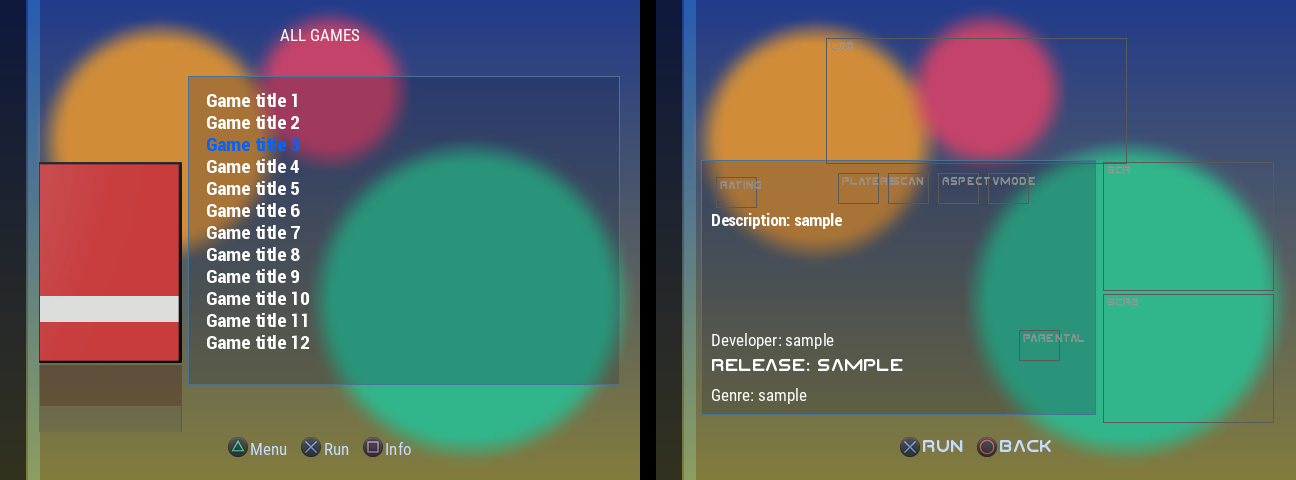
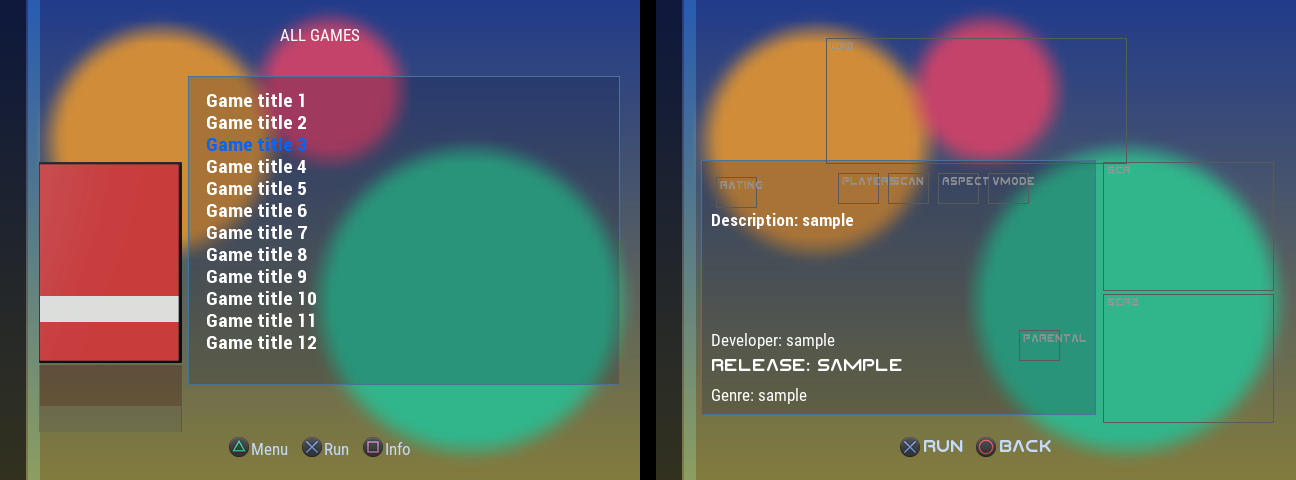
Adapt Rx keeps the side bar on the left; its list, case and info page rebalanced around it
- The frosted side bar sits on the left in every theme of the family: Rx swaps the content, not the
  bar. gen_adapt_family.py's backdrop() has no right-hand bar any more.
- Adapt Rx list page: the list glass 56-464 (408 wide, the list inside it 384), the case 480-623,
  even 16 px gaps from the bar, between them and to the edge. Apps: the wide list clear of the bar,
  as in Adapt.
- Adapt Rx info page: screenshots 56-226, the text glass 242-622 (380 wide, its text 360).
- Adapt and RIPgrid come out unchanged. Previews redrawn; README says what Rx swaps, and that Pop In
  is a toast from build 81.

diff --git a/tools/gen_adapt_family.py b/tools/gen_adapt_family.py
@@ -56,9 +56,10 @@ def block(name, **kv):
     return "\n".join(out)
 
 
-def backdrop(fam, rx):
-    """Background, the frosted screen, the side bar's strip and rule: indices 0-3 of main and info."""
-    bar_x, rule_x = (614, 600) if rx else (0, 28)
+def backdrop(fam):
+    """Background, the frosted screen, the side bar's strip and rule: indices 0-3 of main and info. The
+    side bar is on the left in every theme of the family, Adapt Rx included (it mirrors the content)."""
+    bar_x, rule_x = 0, 28  # the strip 0-26, the rule 28-40: content starts at x 40
     return [
         block(fam + "0", type="Background", pattern="BG", widecrop=1),
         block(fam + "1", type="Ripps2PanelGlass", aligned=0, x=0, y=0, width=640, height=480,
@@ -78,13 +79,16 @@ def screenshot(name, pattern, x, y):
 
 
 def info(rx):
-    # the text panel sits clear of the side bar; the screenshots take the other side
-    gx = 195 if rx else 45    # glass left (395 wide: clear of the side bar and the screenshots)
+    # the text panel and the screenshots side by side, clear of the side bar. Rx swaps them, the side bar
+    # staying left: screenshots 56-226 (16 px from the bar), glass 242-622 (16 px gap, 18 px to the edge)
+    gw = 380 if rx else 395   # glass width
+    gx = 242 if rx else 45    # glass left
+    tw = gw - 20              # text width
     tx = gx + 10              # text left
     ax = gx + 15              # first attribute icon
-    sx = 106 if rx else 532   # screenshots' centre
-    els = backdrop("info", rx) + [
-        block("info4", type="Ripps2PanelGlass", aligned=0, x=gx, y=160, width=395, height=255,
+    sx = 141 if rx else 532   # screenshots' centre
+    els = backdrop("info") + [
+        block("info4", type="Ripps2PanelGlass", aligned=0, x=gx, y=160, width=gw, height=255,
               blur=1, tint=PANEL_TINT, frame=1, **INFO_TILT),
         block("info5", type="GameImage", pattern="LGO", x="POS_MID", y=100, aligned=1, width=300,
               height=125, **INFO_TILT),
@@ -93,13 +97,13 @@ def info(rx):
         block("info8", type="AttributeImage", attribute="Players", aligned=0, x=ax + 122, y=173, **INFO_TILT),
         # line_height: a description longer than its box rolls through it instead of running on
         block("info9", type="AttributeText", attribute="Description", aligned=0, display=2, x=tx, y=210,
-              width=375, height=100, wrap=1, line_height=19, font=1, **INFO_TILT),
+              width=tw, height=100, wrap=1, line_height=19, font=1, **INFO_TILT),
         block("info10", type="AttributeText", attribute="Developer", aligned=0, display=2, x=tx, y=330,
-              width=375, wrap=0, font=2, **INFO_TILT),
+              width=tw, wrap=0, font=2, **INFO_TILT),
         block("info11", type="AttributeText", attribute="Release", aligned=0, display=2, x=tx, y=358,
-              width=375, font=3, **INFO_TILT),
+              width=tw, font=3, **INFO_TILT),
         block("info12", type="AttributeText", attribute="Genre", display=2, aligned=0, x=tx, y=385,
-              width=375, font=2, **INFO_TILT),
+              width=tw, font=2, **INFO_TILT),
         block("info13", type="InfoHintText", aligned=1, x="POS_MID", y=-41, font=3),
         screenshot("info14", "SCR", sx, 226),
         screenshot("info15", "SCR2", sx, 358),
@@ -125,18 +129,22 @@ def common_tail(fam, start):
 
 
 def adapt(rx):
-    gx = 25 if rx else 188    # list glass
-    cx = 530 if rx else 110   # cover and disc centre
-    main = backdrop("main", rx) + [
-        block("main4", type="Ripps2PanelGlass", aligned=0, x=gx, y=76, width=432, height=309,
+    # Rx: the list left and the case right, the side bar staying left; even 16 px gaps from the bar to
+    # the glass (56-464), the glass to the case (480-623) and the case to the edge
+    gw = 408 if rx else 432   # list glass width
+    gx = 56 if rx else 188    # list glass left
+    cx = 552 if rx else 110   # cover and disc centre
+    lw = gw - 24 if rx else 420  # the list inside the glass
+    main = backdrop("main") + [
+        block("main4", type="Ripps2PanelGlass", aligned=0, x=gx, y=76, width=gw, height=309,
               blur=1, tint=PANEL_TINT, frame=1),
         block("main5", type="ItemCover", **case(x=cx, y=262, tilt=1, tilt_x=cx, tilt_y=200)),
         block("main6", type="ItemIcon", aligned=1, scaled=1, x=cx, y=96, width=120, height=120,
               tilt=1, tilt_x=cx, tilt_y=200),
-        block("main7", type="ItemsList", x=gx + 12, y=88, aligned=0, width=420, height=285, font=4),
+        block("main7", type="ItemsList", x=gx + 12, y=88, aligned=0, width=lw, height=285, font=4),
     ] + common_tail("main", 8)
-    # apps: one wide glass list clear of the side bar, no cover or disc
-    ax = 24 if rx else 48
+    # apps: one wide glass list clear of the side bar (left in both), no cover or disc
+    ax = 48
     apps = [
         block("appsMain4", type="Ripps2PanelGlass", aligned=0, x=ax, y=40, width=568, height=368,
               blur=1, tint=PANEL_TINT, frame=1),
@@ -150,7 +158,7 @@ def adapt(rx):
 def ripgrid(rx):
     # 4 x 2 covers centred in the room the side bar leaves; the highlight says which game it is, and only
     # it tips with the right stick (about its own centre; tilt_scale lets it turn further than a page)
-    main = backdrop("main", rx) + [
+    main = backdrop("main") + [
         block("main4", type="Grid", pattern="COV", x=340, y=62, width=120, height=168,
               columns=4, rows=2, spacing=16, font=4, tilt=1, tilt_scale=160),
         block("main5", type="ItemsList", x="POS_MID", y=45, width="DIM_INF", height=24, aligned=1,

diff --git a/README.md b/README.md
@@ -12,7 +12,7 @@ people and coding agents alike can add a theme and know it will load before it r
 
 | Theme | Look | Needs RIPPS2 |
 |---|---|---|
-| **Adapt** / **Adapt Rx** | akilluminati47's Adapt (RiptOPL): each game's background art under frosted glass (zoomed, not stretched, in 16:9) with Adapt's side bar as a frosted strip, the game's cover in RIPPS2's case with its reflection and the disc on one side, the list on clear glass on the other (Rx: mirrored). Info page on clear glass with 4:3 screenshots, tipping with the right stick as one plane; page morphs between them, Settings over the pillars, no towers on the game pages, the source name pops in. Art eases in. | build 80 |
+| **Adapt** / **Adapt Rx** | akilluminati47's Adapt (RiptOPL): each game's background art under frosted glass (zoomed, not stretched, in 16:9) with Adapt's side bar as a frosted strip, the game's cover in RIPPS2's case with its reflection and the disc on one side, the list on clear glass on the other (Rx: the list and the case swap sides, the side bar stays on the left). Info page on clear glass with 4:3 screenshots, tipping with the right stick as one plane; page morphs between them, Settings over the pillars, no towers on the game pages, the source name pops in (from build 81 as a toast in the middle of the page, ALL GAMES, HDD GAMES...). Art eases in. | build 80 |
 | **RIPgrid** | Adapt's frosted screen and side bar with the games as a 4x2 cover grid; the selection breathes with a soft glow and tips with the right stick, games without a cover show as glass tiles with their name, and Circle cycles the sources. | build 80 |
 
 Install: copy a `thm_...` folder into a `THM` folder on your drive (USB, HDD, MMCE, memory card), as
